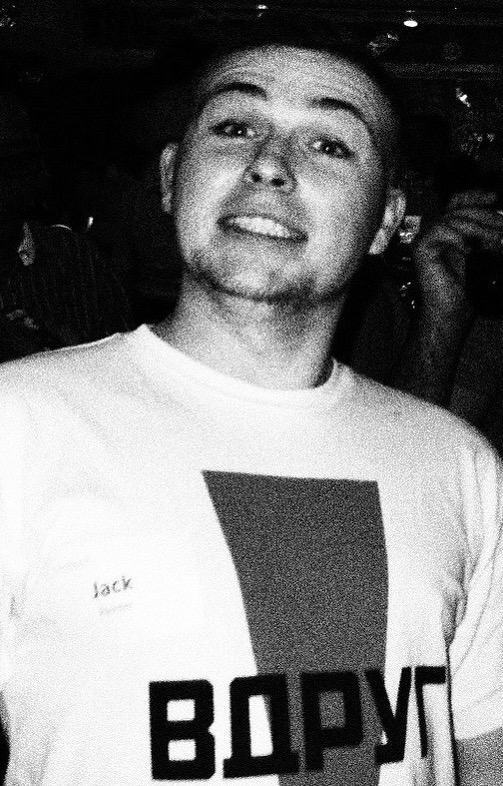
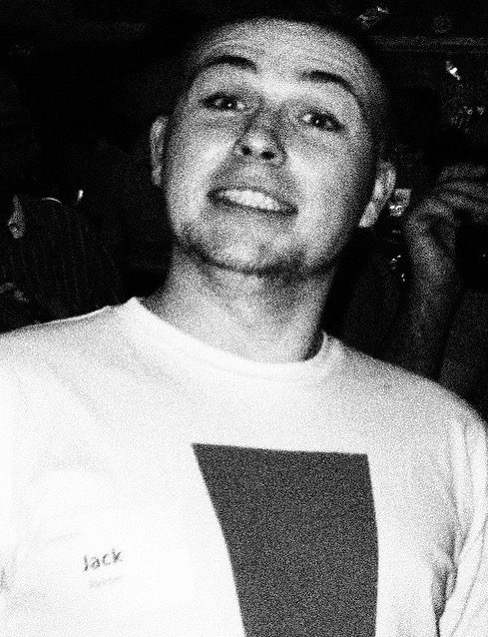
Query for about image instead of importing

diff --git a/src/components/About.js b/src/components/About.js
@@ -1,30 +1,19 @@
 import React from "react"
 import styled from "styled-components"
 import { useStaticQuery, graphql } from "gatsby"
+import Img from "gatsby-image"
 
 // Images
 import Face from "../images/face.jpeg"
 
 const StyledImgContainer = styled.div`
   flex: 1;
-  margin: 20px;
   width: 250px;
-  height: 250px;
   box-sizing: border-box;
   background: white;
   border-radius: 5%;
   overflow: hidden;
   box-shadow: 0 5px 15px 0px rgba(0, 0, 0, 0.6);
-
-  @media (max-width: ${({ theme }) => theme.mobile}) {
-    margin-top: 0px;
-    margin-bottom: 20px;
-  }
-`
-
-const StyledImg = styled.img`
-  width: 105%;
-  height: 125%;
 `
 
 const StyledSvgContainer = styled.div`
@@ -74,6 +63,20 @@ const About = () => {
             title
             about_professional
             about_personal
+            featuredImage {
+              childImageSharp {
+                fluid {
+                  base64
+                  tracedSVG
+                  aspectRatio
+                  sizes
+                  src
+                  srcSet
+                  srcWebp
+                  srcSetWebp
+                }
+              }
+            }
           }
         }
       }
@@ -84,7 +87,7 @@ const About = () => {
   return (
     <>
       <StyledImgContainer>
-        <StyledImg src={Face} alt="My Face" />
+        <Img fluid={data.allMarkdownRemark.edges[0].node.frontmatter.featuredImage.childImageSharp.fluid} />
       </StyledImgContainer>
       <StyledSvgContainer>
         <svg x="0px" y="0px" viewBox="0 0 511.999 511.999">

diff --git a/src/pages/projects.js b/src/pages/projects.js
@@ -33,7 +33,7 @@ const Projects = ({ data }) => {
   const tetris = data.allMarkdownRemark.edges[0].node
   const programateur = data.allMarkdownRemark.edges[1].node
   const originalPortfolio = data.allMarkdownRemark.edges[2].node
-  const currentPortfolio = data.allMarkdownRemark.edges[3].node
+  const currentPortfolio = data.allMarkdownRemark.edges[4].node
 
   return (
     <Layout>
